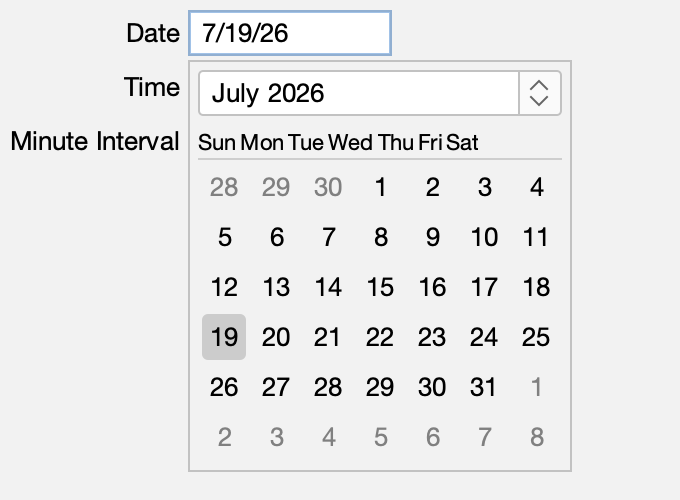
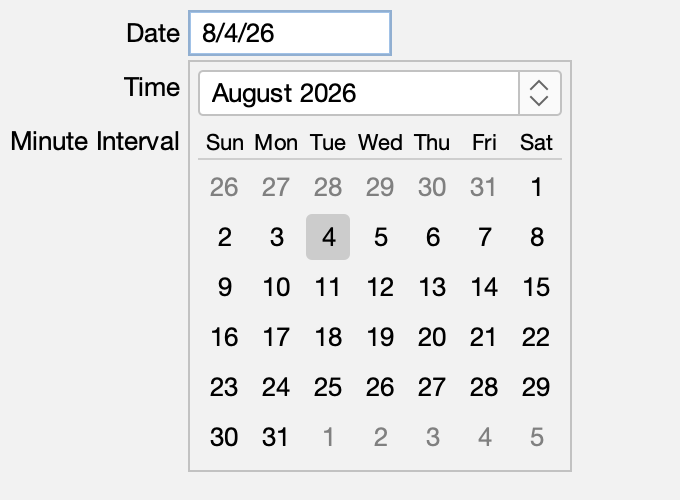
Update DatePicker.

diff --git a/sierra/src/main/java/org/httprpc/sierra/DatePicker.java b/sierra/src/main/java/org/httprpc/sierra/DatePicker.java
@@ -111,8 +111,6 @@ public class DatePicker extends TemporalPicker {
 
             var dayOfWeekRow = new RowPanel();
 
-            dayOfWeekRow.setSpacing(2);
-
             var locale = Locale.getDefault();
 
             var dayOfWeek = WeekFields.of(locale).getFirstDayOfWeek();
@@ -123,7 +121,7 @@ public class DatePicker extends TemporalPicker {
                 label.setHorizontalAlignment(SwingConstants.CENTER);
                 label.putClientProperty("FlatLaf.styleClass", "small");
 
-                dayOfWeekRow.add(label);
+                dayOfWeekRow.add(label, 1.0);
 
                 dayOfWeek = DayOfWeek.of(dayOfWeek.getValue() % 7 + 1);
             }
